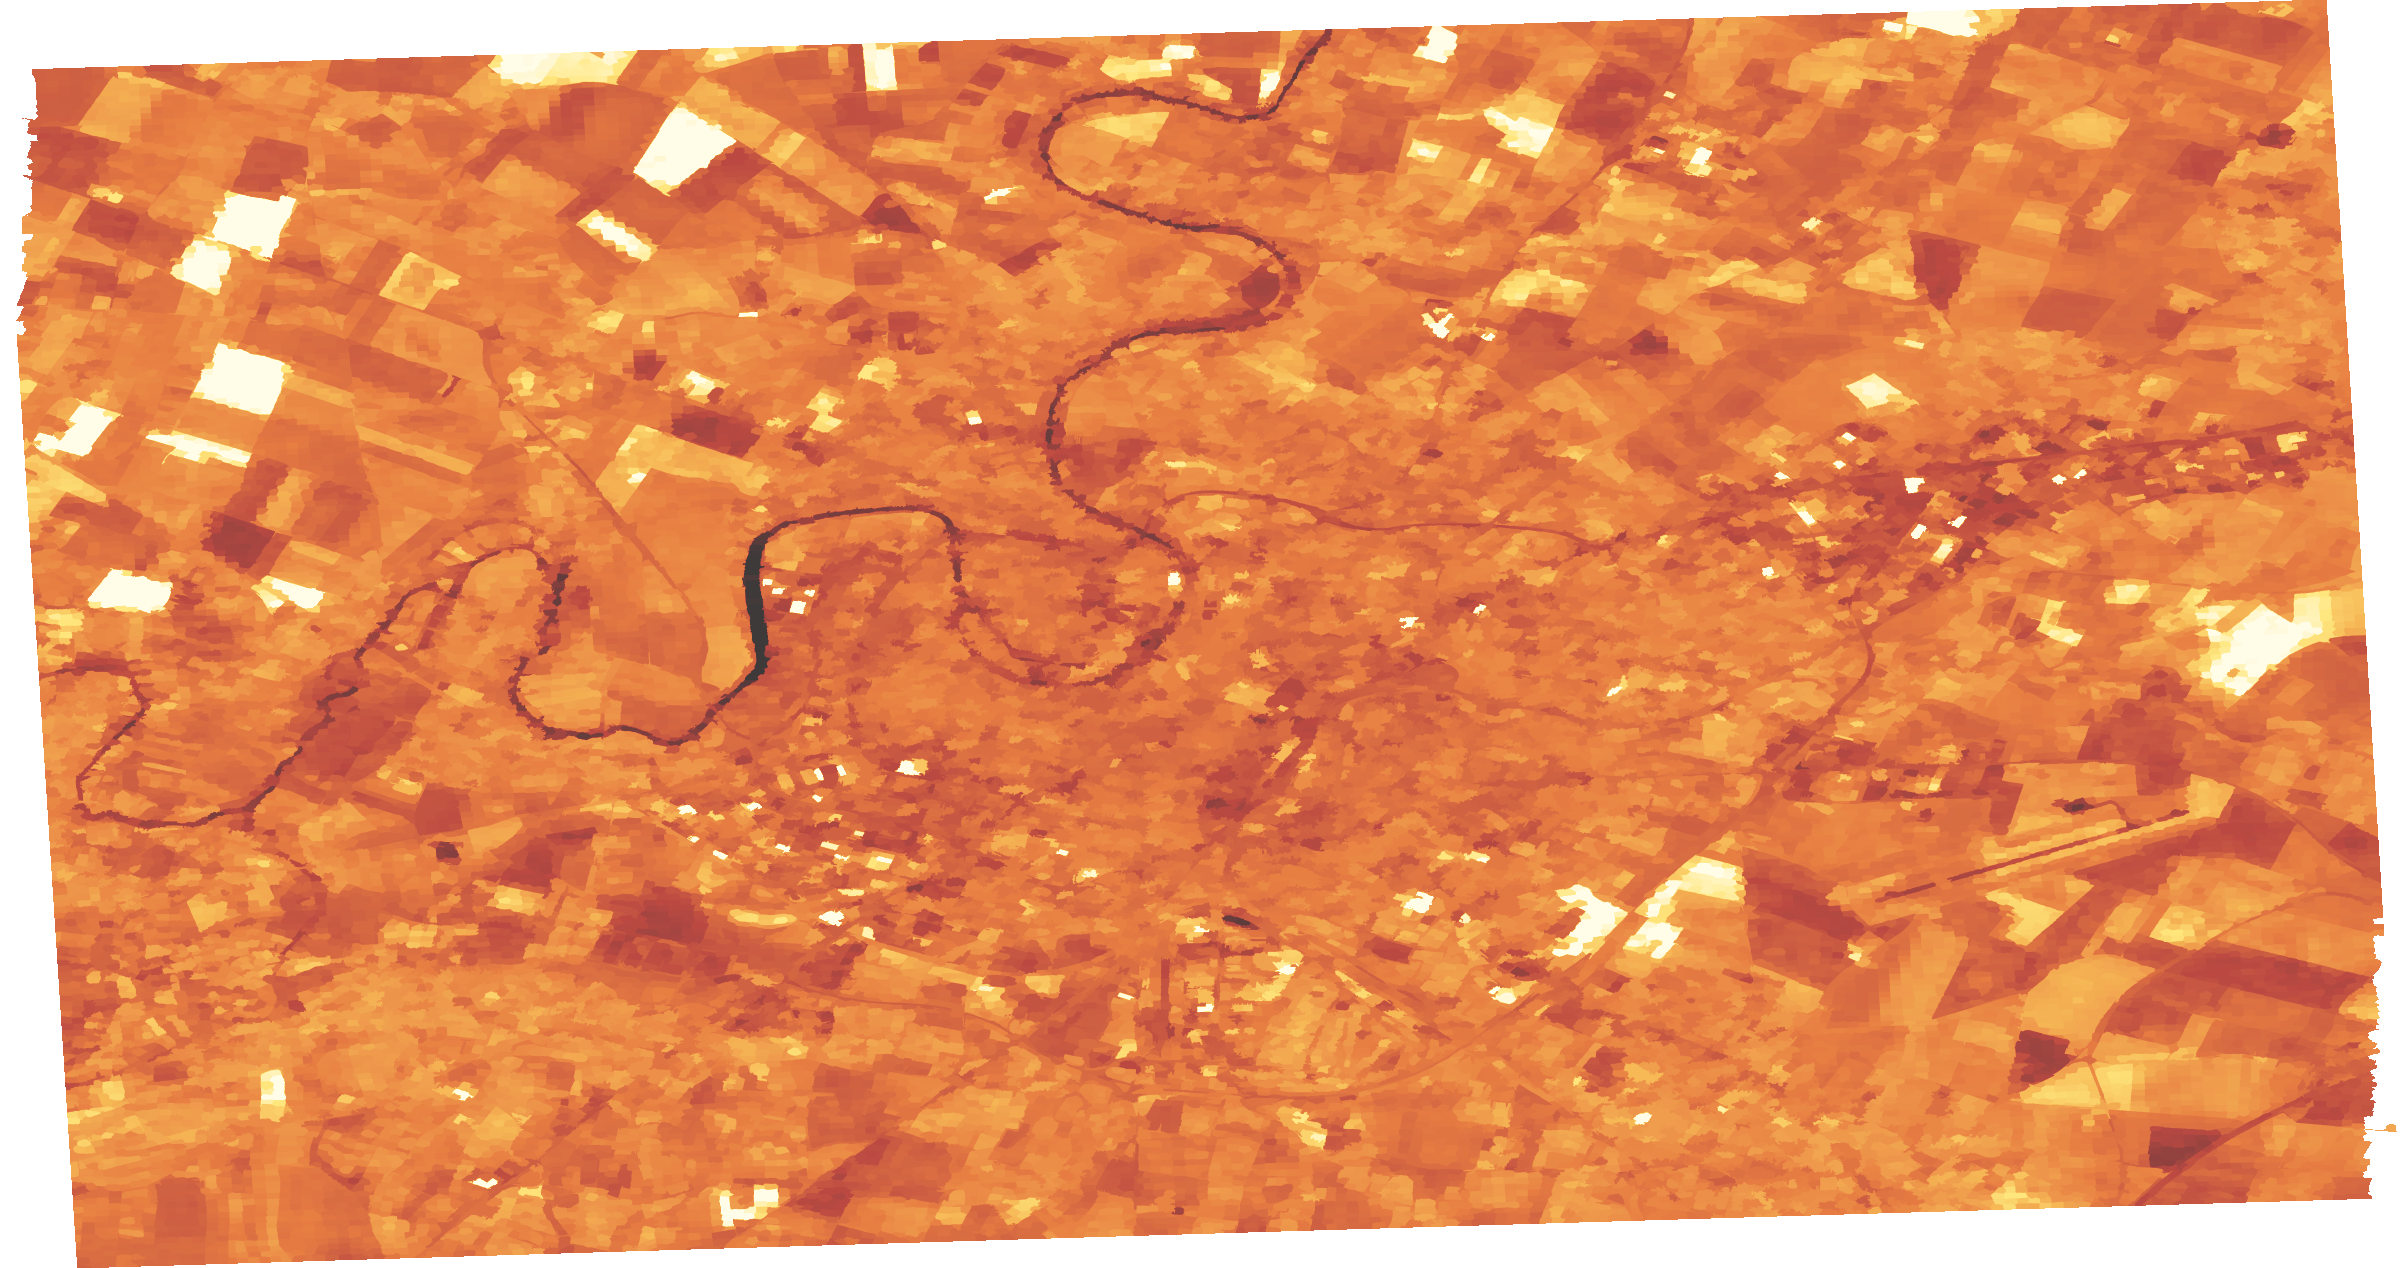
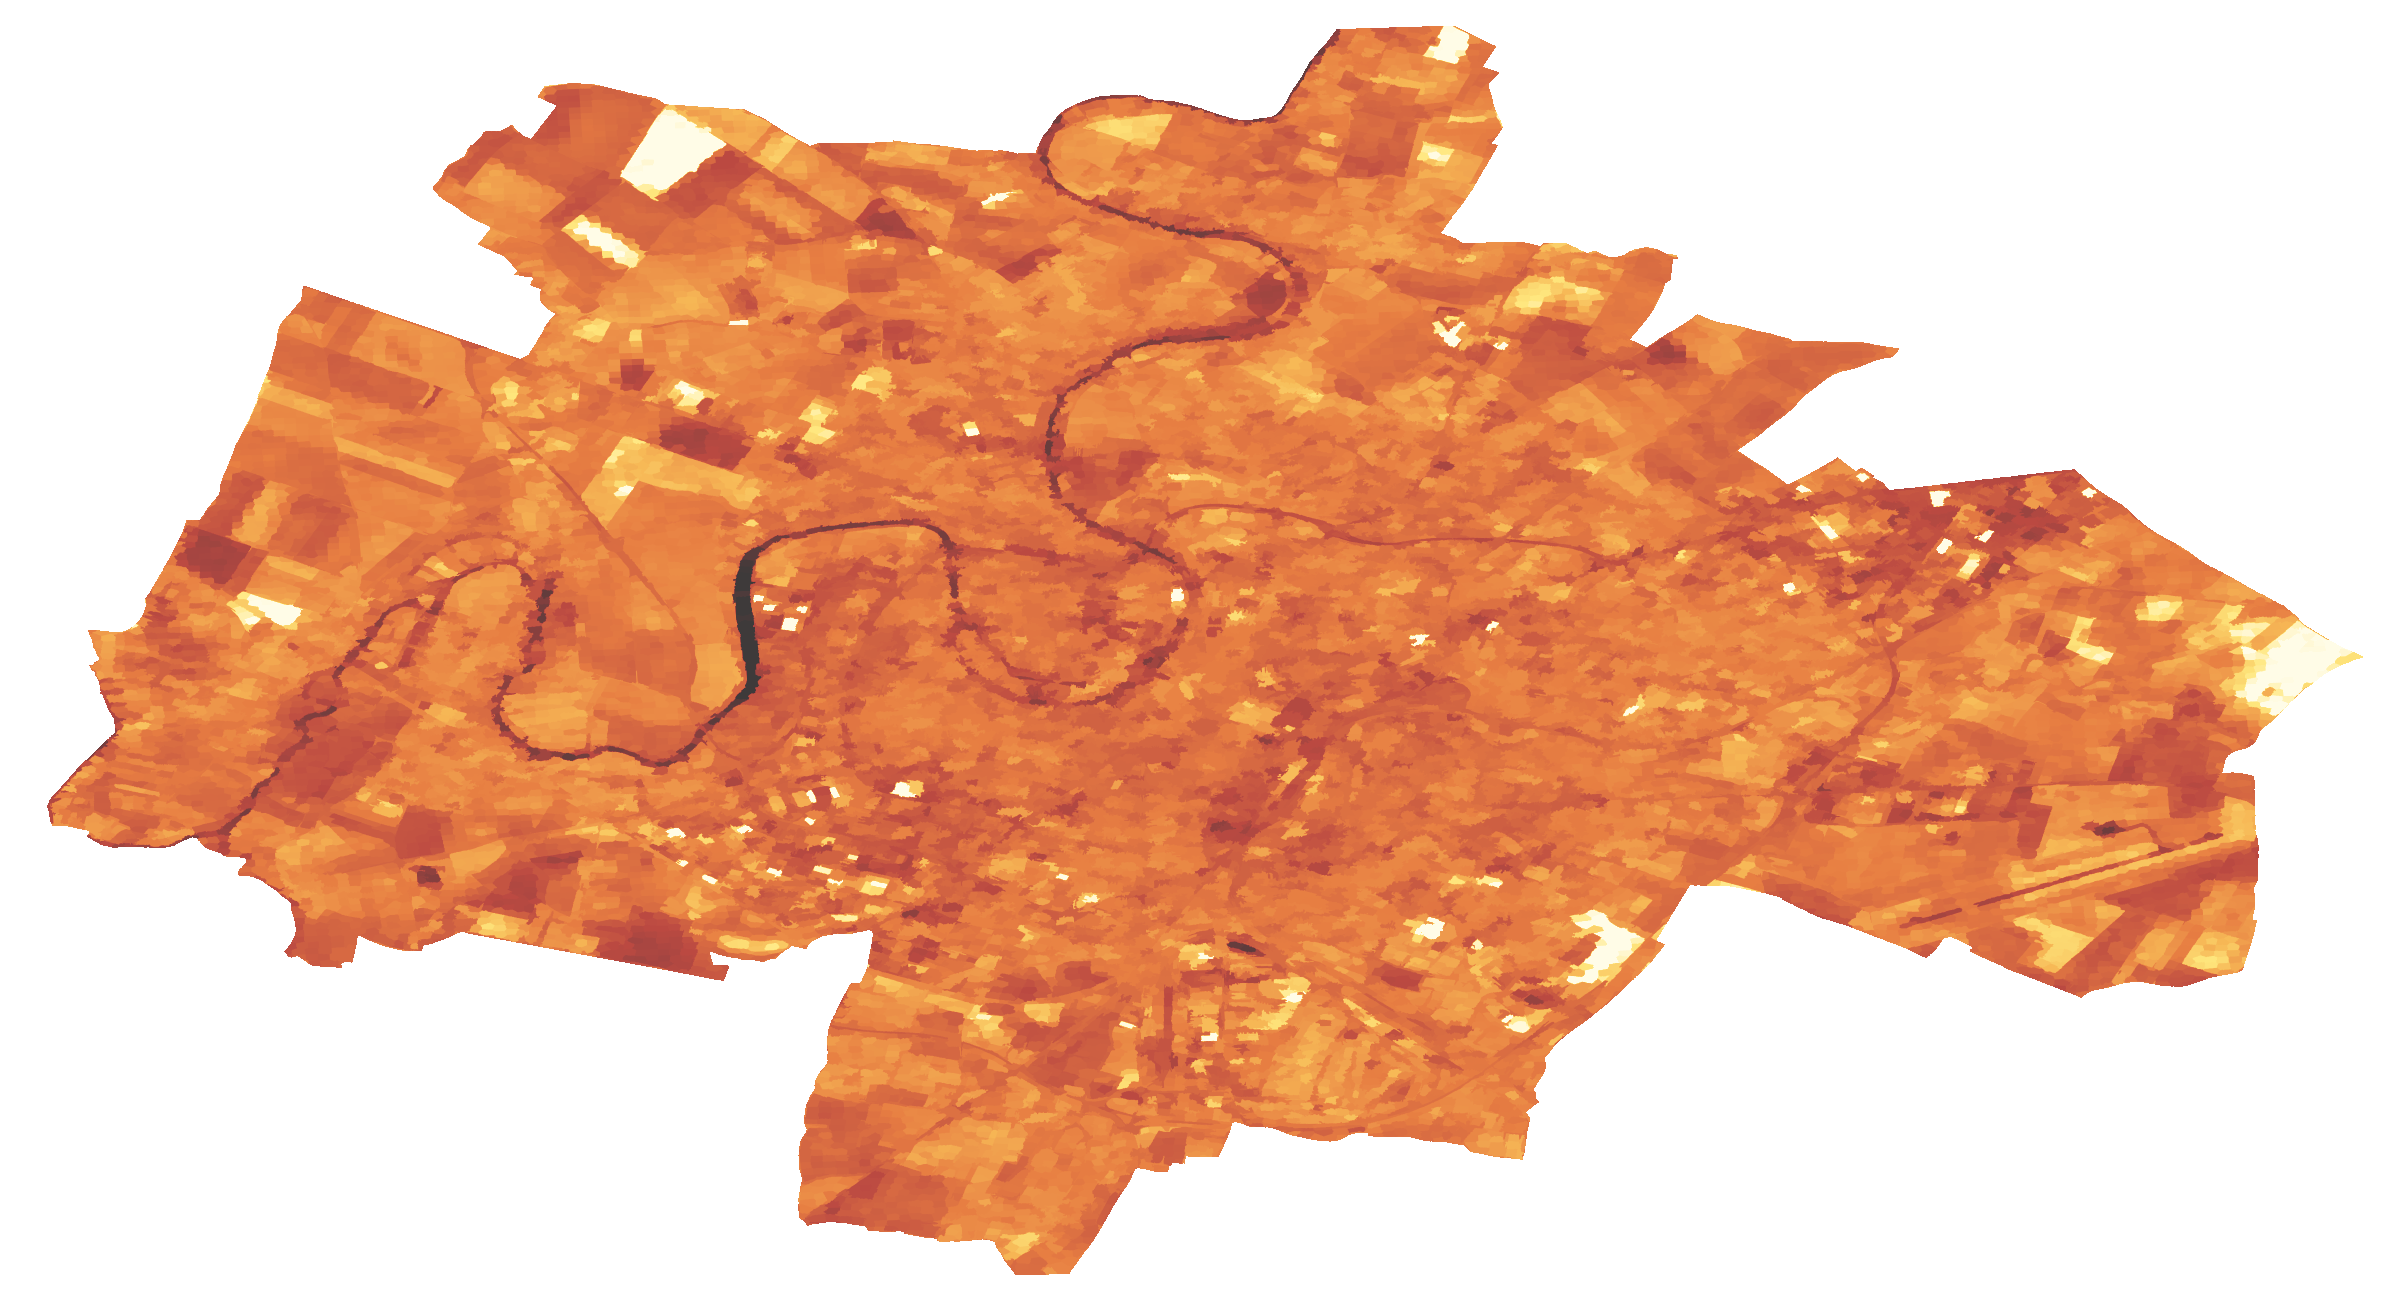
Corrections UX : taille icones, decoupe albedo, legende, vue exclusive, hierarchie visuelle

diff --git a/app.js b/app.js
@@ -72,14 +72,12 @@ function loadZones() {
 
 function styleZone(feat) {
   const p = feat.properties;
-  const t = percentileRank("indice_chaleur", p.indice_chaleur) / 100;
   const isPrio = p.is_priority === 1;
-  return {
-    fillColor: colorForFraction(t),
-    fillOpacity: 0.55,
-    color: isPrio ? "#e0182f" : "#ffffff55",
-    weight: isPrio ? 1.6 : 0.3,
-  };
+  if (isPrio) {
+    const t = percentileRank("indice_chaleur", p.indice_chaleur) / 100;
+    return { fillColor: colorForFraction(t), fillOpacity: 0.75, color: "#e0182f", weight: 1.8 };
+  }
+  return { fillColor: "#8a8878", fillOpacity: 0.08, color: "#8a8878", weight: 0.3, opacity: 0.3 };
 }
 
 function percentileRank(kind, value) {
@@ -100,11 +98,11 @@ function percentileRank(kind, value) {
 function makeEtabIcon(type, isPrio) {
   const config = { ecole: ["#f5a623", "ti-school"], ehpad: ["#8a2be2", "ti-heart"], creche: ["#00b4b4", "ti-baby-carriage"] };
   const [bg, icon] = config[type];
-  const size = isPrio ? 26 : 22;
-  const border = isPrio ? "2.5px solid #e0182f" : "1px solid #222";
+  const size = isPrio ? 18 : 14;
+  const border = isPrio ? "2px solid #e0182f" : "0.75px solid #222";
   return L.divIcon({
     className: "etab-icon",
-    html: `<div style="width:${size}px;height:${size}px;border-radius:50%;background:${bg};border:${border};display:flex;align-items:center;justify-content:center;box-shadow:0 1px 3px rgba(0,0,0,0.4);"><i class="ti ${icon}" style="color:#fff;font-size:${size-12}px;"></i></div>`,
+    html: `<div style="width:${size}px;height:${size}px;border-radius:50%;background:${bg};border:${border};display:flex;align-items:center;justify-content:center;box-shadow:0 1px 3px rgba(0,0,0,0.4);"><i class="ti ${icon}" style="color:#fff;font-size:${Math.max(size-6,8)}px;"></i></div>`,
     iconSize: [size, size], iconAnchor: [size/2, size/2],
   });
 }
@@ -138,11 +136,24 @@ function refreshEtablissements() {
 });
 
 // ---------- Rasters (albedo, vegetation, LST) ----------
+function updateZonesVisibility() {
+  const anyRasterOn = ["layer-albedo", "layer-vegetation", "layer-lst"].some(id => document.getElementById(id).checked);
+  if (!zonesLayer) return;
+  zonesLayer.eachLayer(l => {
+    const p = l.feature.properties;
+    if (p.is_priority === 1) {
+      l.setStyle({ fillOpacity: anyRasterOn ? 0.12 : 0.75, opacity: anyRasterOn ? 0.35 : 1 });
+    } else {
+      l.setStyle({ fillOpacity: anyRasterOn ? 0.02 : 0.08, opacity: anyRasterOn ? 0.08 : 0.3 });
+    }
+  });
+}
+
 function toggleRaster(kind, checkboxId) {
   document.getElementById(checkboxId).addEventListener("change", (e) => {
     if (e.target.checked) {
       fetch(`data/niort_${kind}.json`).then(r => r.json()).then(meta => {
-        rasterLayers[kind] = L.imageOverlay(`data/niort_${kind}.png`, meta.bounds, { opacity: 0.8, pane: "rasterPane" }).addTo(map);
+        rasterLayers[kind] = L.imageOverlay(`data/niort_${kind}.png`, meta.bounds, { opacity: 0.85, pane: "rasterPane" }).addTo(map);
       });
       if (kind === "albedo" || kind === "vegetation") {
         GeoTIFF.fromUrl(`data/niort_${kind}_precise.tif`)
@@ -158,6 +169,7 @@ function toggleRaster(kind, checkboxId) {
       if (rasterLayers[kind]) { map.removeLayer(rasterLayers[kind]); rasterLayers[kind] = null; }
       if (kind === "albedo" || kind === "vegetation") precise[kind] = null;
     }
+    updateZonesVisibility();
   });
 }
 toggleRaster("albedo", "layer-albedo");

diff --git a/index.html b/index.html
@@ -29,6 +29,16 @@
       <p class="panel-intro">ICU DIAG permet d'identifier les secteurs urbains les plus exposes et les plus vulnerables aux effets d'ilot de chaleur urbain. Recherchez une adresse ou cliquez sur un ilot, un batiment ou un etablissement de la carte pour obtenir un diagnostic.</p>
     </div>
 
+    <div class="panel" id="legend-panel">
+      <p class="section-title">Comment lire la carte</p>
+      <p class="legend-explain">Les zones grises representent le reste de la commune. Les zones colorees sont le <b>dernier quartile</b> de l'indice de chaleur cumulative (bati dense, peu vegetalise, albedo faible, temperature elevee), du orange au rouge fonce selon l'intensite.</p>
+      <div id="legend-gradient"></div>
+      <div id="legend-labels"><span>0.53</span><span>indice de chaleur cumulative</span><span>0.79</span></div>
+      <div class="legend-points">
+        <div><span class="dot-ring"></span> Contour renforce : ilot le plus a risque</div>
+      </div>
+    </div>
+
     <div class="panel">
       <label class="checkbox-row"><input type="checkbox" id="layer-albedo" /> Albedo de surface</label>
       <label class="checkbox-row"><input type="checkbox" id="layer-vegetation" /> Couvert vegetal</label>
@@ -111,14 +121,6 @@
 
     </div>
 
-    <div class="panel" id="legend-panel">
-      <p class="section-title">Legende</p>
-      <div id="legend-gradient"></div>
-      <div id="legend-labels"><span>Faible</span><span>Indice de chaleur</span><span>Eleve</span></div>
-      <div class="legend-points">
-        <div><span class="dot-ring"></span> Dernier quartile (le plus a risque)</div>
-      </div>
-    </div>
 
   </aside>
 

diff --git a/style.css b/style.css
@@ -76,9 +76,10 @@ html, body { margin: 0; padding: 0; height: 100%; font-family: -apple-system, Bl
 .solution-link { font-size: 11.5px; color: #b84a26; text-decoration: none; }
 .solution-link:hover { text-decoration: underline; }
 
+.legend-explain { font-size: 12px; color: #6b6a63; line-height: 1.5; margin: 0 0 10px; }
 #legend-gradient {
   height: 14px; border-radius: 4px;
-  background: linear-gradient(to right, #2c7bb6, #ffffbf, #fdae61, #d7191c, #5c0000);
+  background: linear-gradient(to right, #f5a862, #de5637, #b41f1f, #5c0000);
   margin-bottom: 4px;
 }
 #legend-labels { display: flex; justify-content: space-between; font-size: 10px; color: #8a8878; margin-bottom: 10px; }